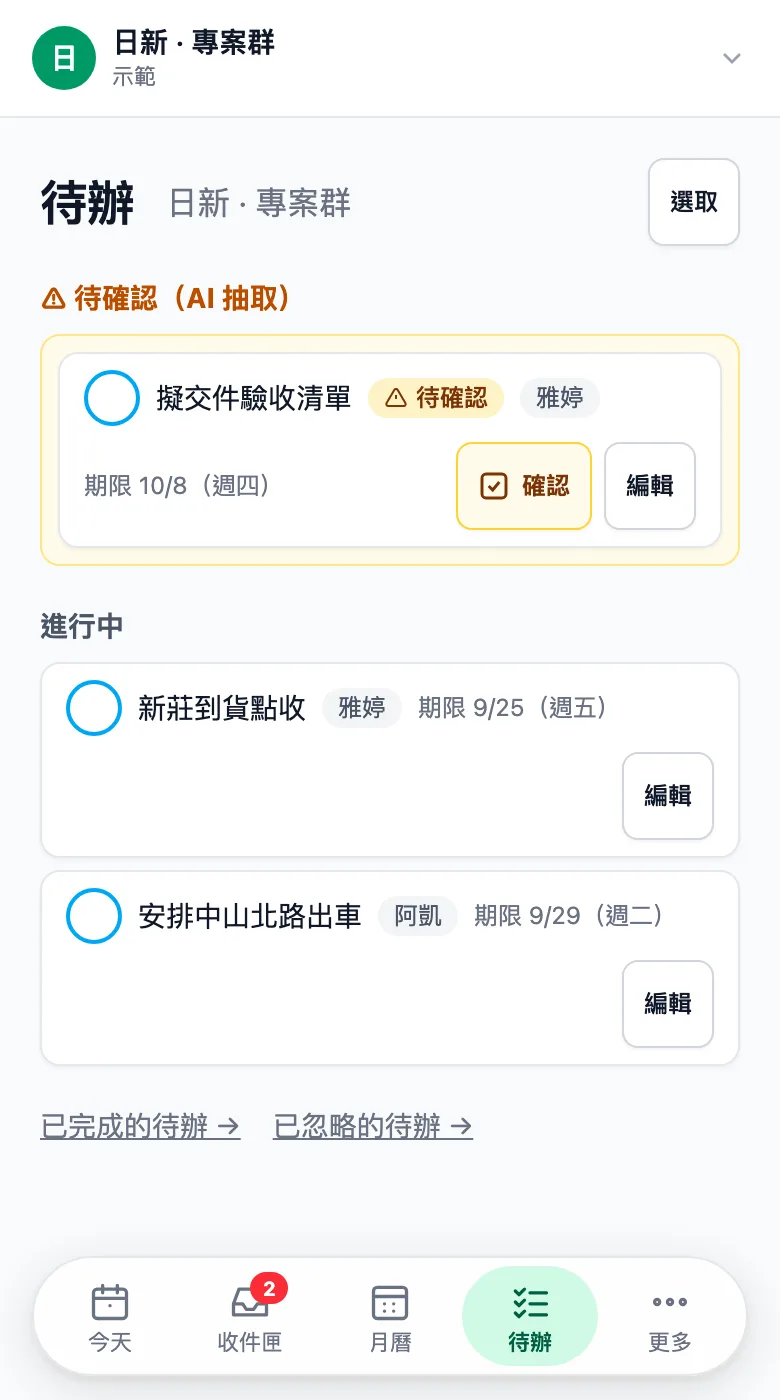
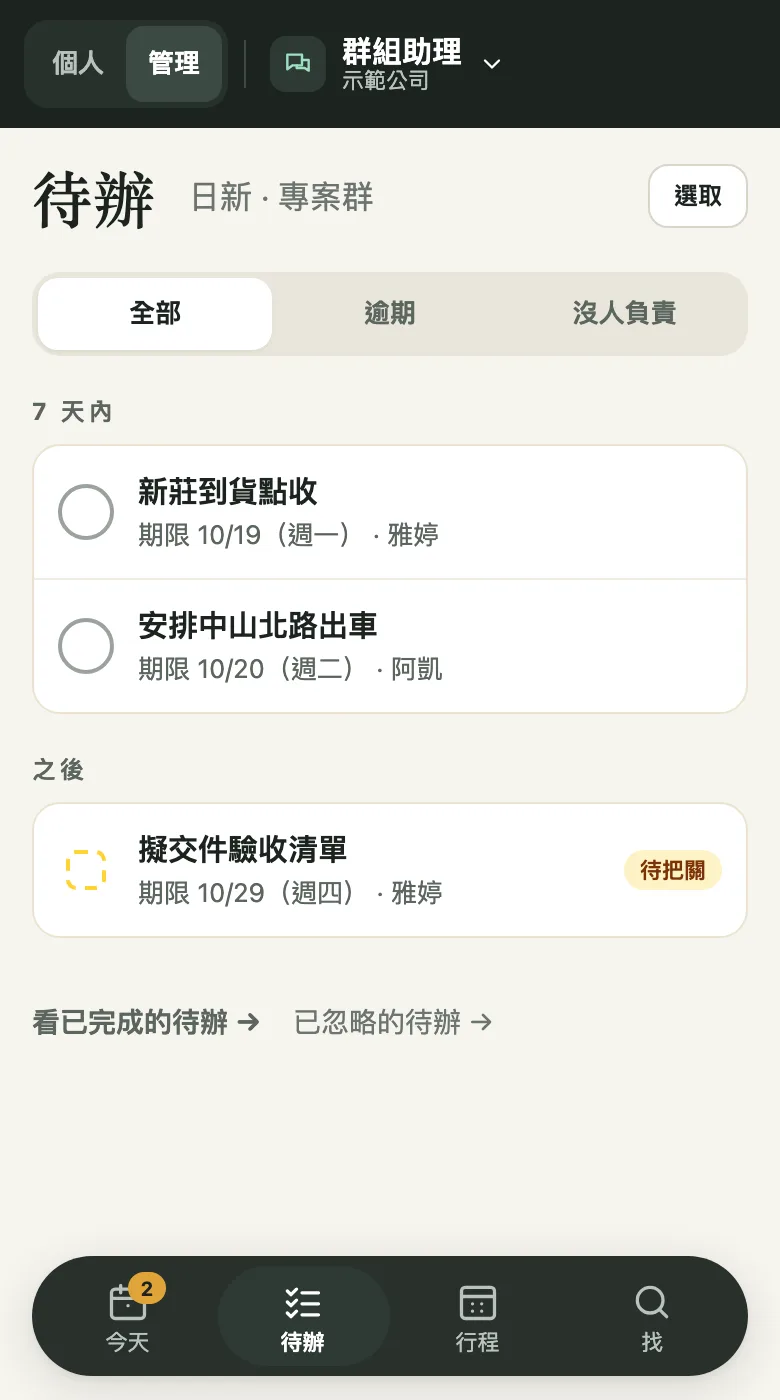
新增：官網與教學截圖照新版介面重拍（今天／待辦／行程／找、把關）
- public/shots 六張用示範資料重拍，拍完已清除示範資料
- 教學頁與官網文案的「收件匣」改「把關」、「月曆」改「行程」，拿掉舊版圖說
- 修復示範資料：第二則公告少 pinned，整批被 NOT NULL 擋下卻沒報錯；補欄位並加錯誤檢查

diff --git a/src/app/ui/intro.tsx b/src/app/ui/intro.tsx
@@ -49,7 +49,7 @@ export function DemoSection({ title = '點一下，看它怎麼整理' }: { titl
 const STEPS = [
   { t: '把群記邀進 LINE 工作群', d: '跟邀朋友進群一樣。它會發一次說明，之後就安靜記錄。' },
   { t: '管理員點連結認領', d: '用 LINE 登入，按一下「認領」，這個群就歸你的公司管理。' },
-  { t: '照常講話，其餘自動發生', d: '行程、待辦、公告自動整理好，你在收件匣確認，全員在 LINE 裡就看得到。' },
+  { t: '照常講話，其餘自動發生', d: '行程、待辦、公告自動整理好，你在「把關」確認，全員在 LINE 裡就看得到。' },
 ];
 
 export function StepsSection() {
@@ -103,8 +103,8 @@ export { FlowSection } from './intro-flow';
 // ── 功能巡禮：每個功能一段文字配一支小手機 ──
 const FEATURES = [
   { t: '今天', d: '打開就知道今天要做什麼：跨好幾個群的行程與到期待辦排在同一條時間線，逾期的標紅，要你處理的放最上面。', mock: <Shot src="/shots/site-today.webp" alt="今天頁：待確認提醒與日期時間線" /> },
-  { t: '收件匣', d: 'AI 整理的東西先到這裡排隊。每張卡片上面是原話、下面是整理結果：對就確認，錯就修改，不是就忽略——它會記住，不再犯。', mock: <Shot src="/shots/site-inbox.webp" alt="收件匣：每張卡附上原話與確認按鈕" /> },
-  { t: '月曆', d: '月、週、日、議程四種看法。有時間的行程自動排進時間軸，遠期的行程用議程一次看完；綠色已確認、琥珀待確認。', mock: <Shot src="/shots/site-calendar.webp" alt="月曆的議程看法" /> },
+  { t: '把關', d: 'AI 整理的東西先到這裡排隊。每張卡片上面是原話、下面是整理結果：對就確認，錯就修改，不是就忽略——它會記住，不再犯。', mock: <Shot src="/shots/site-inbox.webp" alt="把關頁：每張卡附上原話與確認按鈕" /> },
+  { t: '行程', d: '清單、月、週、日四種看法。有時間的行程自動排進時間軸，遠期的行程用清單一次看完；綠色已確認、琥珀待確認。', mock: <Shot src="/shots/site-calendar.webp" alt="行程的清單看法" /> },
   { t: '待辦', d: '每件事都有負責人與期限。待確認的獨立一區；點圈圈就完成，群成員也能在 LINE 裡自己按完成。', mock: <Shot src="/shots/site-tasks.webp" alt="待辦頁：待確認區與進行中清單" /> },
   { t: '公告／決議', d: '「以後估價單一律副本給會計」這種拍板的規則，自動整理成公告，不會沉進訊息海裡。', mock: <Shot src="/shots/site-notes.webp" alt="公告與決議頁" /> },
   { t: '檔案', d: '群裡傳的報價單、照片、PDF、語音都自動辨識文字，依專案歸類。之後搜「估價單」就找得到。', mock: <FilesMock /> },

diff --git a/src/app/guide/page.tsx b/src/app/guide/page.tsx
@@ -4,7 +4,7 @@ import { AskMock, Phone, Shot } from '@/app/ui/intro-mocks';
 export const metadata = { title: '新手教學', description: '5 分鐘開始用群記：建立組織、邀進群、認領、把關。' };
 
 // 新手教學（圖文）：官網、/start、上手卡都連過來。圖一律用 intro-mocks 的假介面與 public/shots 的示範截圖，
-// 不放真實群組畫面。public/shots 是 9/25 拍的舊版介面（「收件匣」＝現在的「把關」），重拍見 docs/screenshots/README.md。文案要跟真的流程對得上：/start、claimNotice（core/ingest.ts）、認領頁、把關頁。
+// 不放真實群組畫面。介面改版後重拍 public/shots，見 docs/screenshots/README.md。文案要跟真的流程對得上：/start、claimNotice（core/ingest.ts）、認領頁、把關頁。
 
 const Bubble = ({ who, me, children }: { who?: string; me?: boolean; children: React.ReactNode }) =>
   me ? (
@@ -137,7 +137,7 @@ const STEPS: { id: string; t: string; d: React.ReactNode; tip?: React.ReactNode;
   {
     id: 'review',
     t: '到「把關」點頭確認',
-    d: '群記整理的東西會先排在「今天」最上面和「把關」頁（圖上的「收件匣」）。每張卡片上面是原話、下面是整理結果：對就按確認，錯就修改，不是就忽略。',
+    d: '群記整理的東西會先排在「今天」最上面和「把關」頁。每張卡片上面是原話、下面是整理結果：對就按確認，錯就修改，不是就忽略。',
     tip: '你確認過的才算數。忽略過的，它會記住，不會再犯。',
     img: <Shot src="/shots/site-inbox.webp" alt="把關頁：每張卡附上原話與確認按鈕" />,
   },

diff --git a/src/app/ui/intro-flow.tsx b/src/app/ui/intro-flow.tsx
@@ -10,7 +10,7 @@ import { SCENES } from './intro-flow-scenes';
 const FLOW = [
   { t: '群組對話', d: '大家照常講話。文字、圖片、PDF、語音都收，貼圖和「好」「收到」這類閒聊不記錄。', tag: '零輸入' },
   { t: 'AI 提取', d: '找出日期、時間、地點、負責人和拍板的決定，整理成行程、待辦、公告。', tag: '自動' },
-  { t: '收件匣：人員確認', d: '每一筆都附上 AI 根據的那句原話。管理員或最清楚狀況的群成員按「確認」、改錯字，或一鍵忽略。', tag: '你把關' },
+  { t: '把關：人員確認', d: '每一筆都附上 AI 根據的那句原話。管理員或最清楚狀況的群成員按「確認」、改錯字，或一鍵忽略。', tag: '你把關' },
   { t: '定案歸位', d: '確認過的內容進月曆、待辦、公告與檔案。之後的對話若改期，AI 會提出更新，再等你確認。', tag: '可回溯' },
   { t: '送到每個人手上', d: '成員在 LINE 裡點開就看得到；訂閱的人每天早上收到私訊提醒；忘了就在群裡 @群記 問。', tag: '在 LINE 裡' },
 ];

diff --git a/scripts/seed-demo.ts b/scripts/seed-demo.ts
@@ -196,7 +196,7 @@ async function main() {
     },
   ]);
 
-  await db.from('notes').insert([
+  const { error: notesErr } = await db.from('notes').insert([
     {
       group_id: GROUP_ID,
       kind: 'decision',
@@ -214,6 +214,7 @@ async function main() {
       kind: 'decision',
       title: '第三項數量改為 320',
       body: '原資料標示有誤，已與客戶確認。',
+      pinned: false, // 批次 insert 缺欄位會被補成 null，pinned 是 NOT NULL
       status: 'active',
       needs_confirmation: false,
       source_message_ids: src('C1'),
@@ -221,6 +222,7 @@ async function main() {
       updated_at: D(-2, '14:25').toISOString(),
     },
   ]);
+  if (notesErr) throw new Error(`公告寫入失敗：${notesErr.message}`);
 
   console.log(`✅ ${GROUP_NAME}（${GROUP_ID}）：${SCRIPT.length} 則對話 → 2 事件 / 4 待辦 / 2 公告`);
   console.log(`   看畫面：/?group=${GROUP_ID}`);
